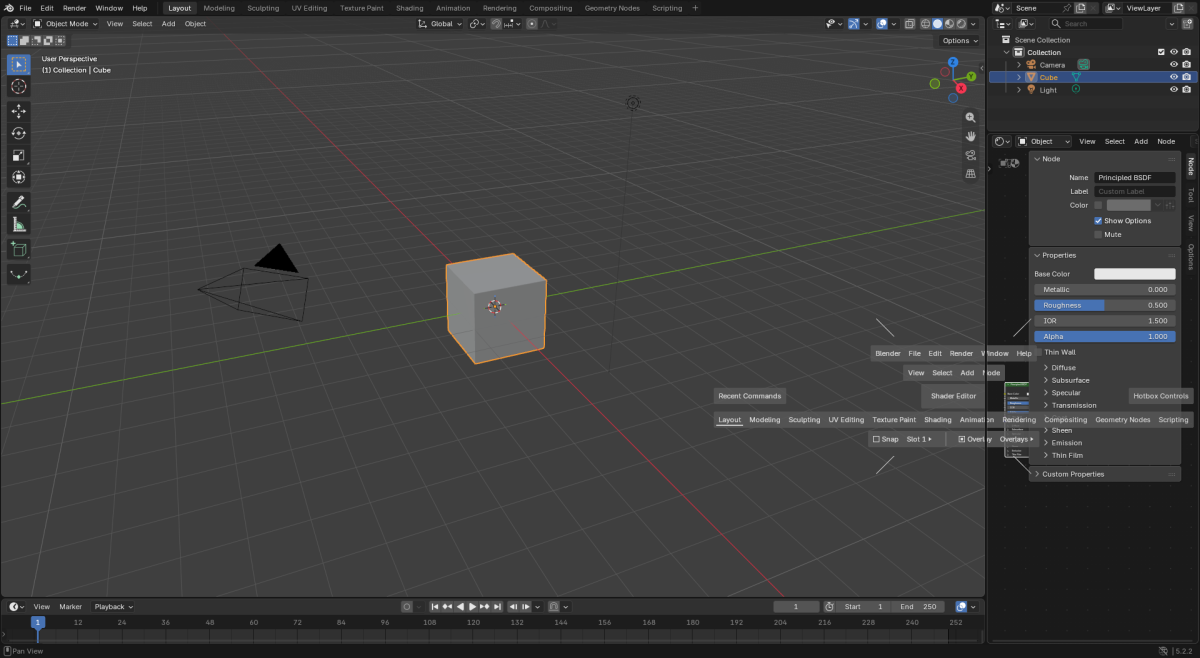
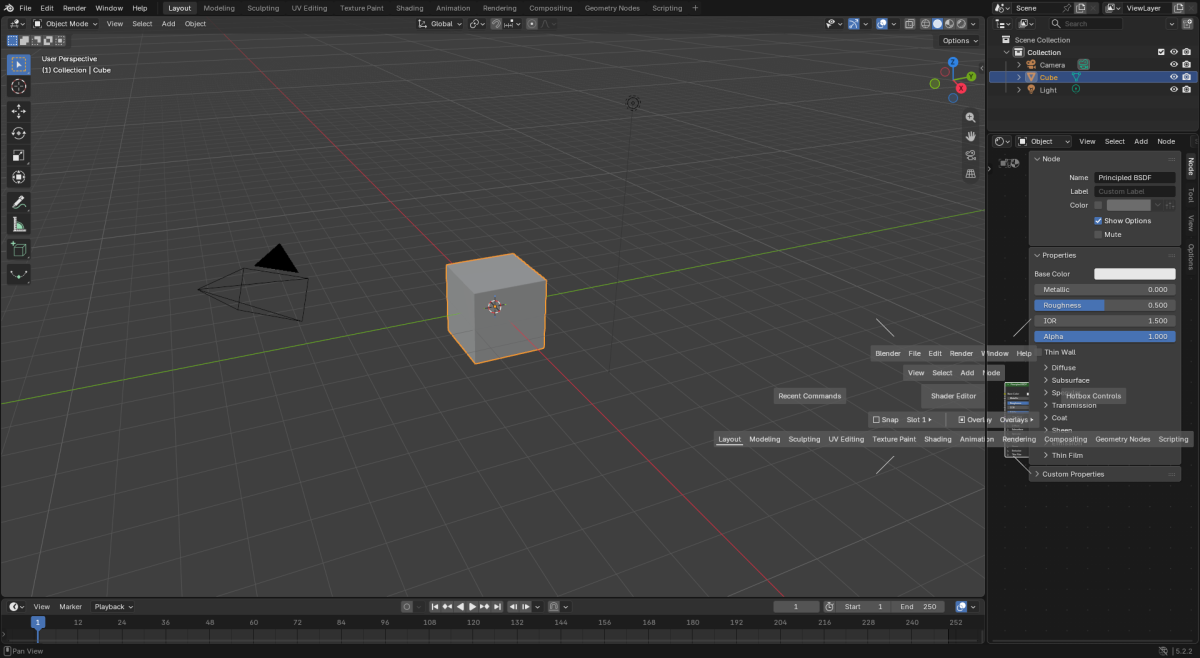
Layout: workspace row is always the bottom-most strip
core/model.py ROWS_LAST = ('workspace',); the layout places ROWS_LAST rows after every
other below-centre row regardless of model order. build_model order is now root,
contextual, tool_settings, workspace. Tests and interface notes updated.

Changed region(s): [[0.5858, 0.5775, 1.0, 0.6991], [0.5858, 0.5775, 0.7092, 0.6079]]

diff --git a/tests/unit/test_geometry.py b/tests/unit/test_geometry.py
@@ -206,8 +206,8 @@ class TestPacking(unittest.TestCase):
                 menu_row('contextual', ('View', 'Select'))]
         lay = do_layout(full_model(rows=rows))
         keys = [s.key for s in row_strips(lay)]
-        self.assertEqual(keys, ['root', 'contextual', 'extra2', 'workspace', 'tool_settings',
-                                'extra1'])
+        self.assertEqual(keys, ['root', 'contextual', 'extra2', 'tool_settings', 'extra1',
+                                'workspace'])
         center = lay.center.rect
         for s in row_strips(lay):
             if s.key in model_mod.ROWS_ABOVE:
@@ -951,17 +951,19 @@ class TestGlyphLayout(unittest.TestCase):
         self.assertEqual(g.hit_test(lay, *[v + 1 for v in (a.rect.x, a.rect.y)]), 'ts:snap:a',
                          "disabled items still hover-test (callers check enabled)")
 
-    def test_rows_order_contextual_above_tool_settings_below(self):
+    def test_rows_order_contextual_above_tool_settings_below_workspace_last(self):
         rows = [ts_row([toggle('a', 'Alpha')]), menu_row('contextual', ('View', 'Select')),
                 menu_row('root', ROOT_LABELS), ws_row()]
-        rows = [rows[2], rows[1], rows[3], rows[0]]      # build_model order
-        lay = do_layout(full_model(rows=rows))
-        ys = {k: lay.strip(k).rect.y for k in ('root', 'contextual', 'workspace', 'tool_settings')}
-        m = lay.metrics
-        self.assertGreater(ys['root'], ys['contextual'])
-        self.assertEqual(ys['contextual'], lay.center.rect.y1 + m.gap_y)
-        self.assertEqual(ys['workspace'], lay.center.rect.y - m.gap_y - m.row_h)
-        self.assertLess(ys['tool_settings'], ys['workspace'])
+        for order in ([2, 1, 0, 3], [2, 1, 3, 0]):       # build_model order; workspace anywhere
+            lay = do_layout(full_model(rows=[rows[i] for i in order]))
+            ys = {k: lay.strip(k).rect.y for k in ('root', 'contextual', 'workspace', 'tool_settings')}
+            m = lay.metrics
+            self.assertGreater(ys['root'], ys['contextual'])
+            self.assertEqual(ys['contextual'], lay.center.rect.y1 + m.gap_y)
+            self.assertEqual(ys['tool_settings'], lay.center.rect.y - m.gap_y - m.row_h)
+            self.assertLess(ys['workspace'], ys['tool_settings'])
+            self.assertEqual(min(s.rect.y for s in row_strips(lay)), ys['workspace'],
+                             "workspace tabs are the bottom-most strip")
 
     def test_menu_strips_fixed_when_tool_settings_wraps(self):
         """The root / contextual strips keep their offset from the centre whether the Tool
@@ -973,7 +975,7 @@ class TestGlyphLayout(unittest.TestCase):
             lay = do_layout(full_model(rows=rows))
             lines = [s for s in row_strips(lay) if s.key == 'tool_settings']
             return len(lines), {k: lay.strip(k).rect.y - lay.center.rect.y
-                                for k in ('root', 'contextual', 'workspace')}
+                                for k in ('root', 'contextual')}
         n1, one = offsets(2)
         n3, three = offsets(40)
         self.assertEqual(n1, 1)

diff --git a/src/meso/core/geometry.py b/src/meso/core/geometry.py
@@ -35,7 +35,7 @@ import math
 from collections.abc import Callable, Mapping
 from dataclasses import dataclass, field
 
-from .model import (CENTER_ID, CONTROLS_ID, KIND_SEPARATOR, KIND_TOGGLE, RECENT_ID, ROWS_ABOVE,
+from .model import (CENTER_ID, CONTROLS_ID, KIND_SEPARATOR, KIND_TOGGLE, RECENT_ID, ROWS_ABOVE, ROWS_LAST,
                     PlazaModel, Item)
 from .rects import Rect, bounding_box
 
@@ -361,7 +361,7 @@ def layout(model: PlazaModel, anchor: tuple[float, float], window_bounds: Rect |
        centred on the anchor (``round_px`` of the low corner); its text is centred in it.
     5. Vertical: lines above (ROWS_ABOVE order, each row's lines in reading order) stack
        upward from ``center.y1 + gap_y`` (lowest line first); lines below stack downward from
-       ``center.y - gap_y`` in model order; line pitch ``row_h + gap_y``.
+       ``center.y - gap_y`` in model order, ROWS_LAST rows last; line pitch ``row_h + gap_y``.
     6. Side boxes (``model.recent`` left, ``model.controls`` right): ``w = ceil(text_w +
        2*pad_x)``, ``h = row_h``, vertically centred on the centre box.
        ``recent.x = min(nx0, center.x - side_gap - w)`` where ``nx0`` = left edge of the
@@ -389,7 +389,9 @@ def layout(model: PlazaModel, anchor: tuple[float, float], window_bounds: Rect |
     # Rows -> lines (reading order). Placement before the shift: build rects at dy = 0 first.
     above_rows = [model.row(key) for key in ROWS_ABOVE]
     above = [r for r in above_rows if r is not None and not r.is_empty()]
-    below = [r for r in model.rows if r.key not in ROWS_ABOVE and not r.is_empty()]
+    below = [r for r in model.rows if r.key not in ROWS_ABOVE and r.key not in ROWS_LAST
+             and not r.is_empty()]
+    below += [r for key in ROWS_LAST for r in [model.row(key)] if r is not None and not r.is_empty()]
     above_lines = [(r, i, items) for r in above
                    for i, items in enumerate(_wrap(r.items, extents, m, wrap_at))]
     below_lines = [(r, i, items) for r in below

diff --git a/src/meso/core/model.py b/src/meso/core/model.py
@@ -50,10 +50,11 @@ PASSIVE_KINDS = frozenset({KIND_SEPARATOR, KIND_LABEL})
 ROW_ROOT = 'root'                       # TOPBAR_MT_editor_menus (File Edit Render ...)
 ROW_CONTEXTUAL = 'contextual'           # hovered editor's header menus (Phase 3)
 ROW_TOOL_SETTINGS = 'tool_settings'     # header centre/right controls (Phase 3)
-ROW_WORKSPACE = 'workspace'             # workspace tabs (below the centre line)
-# Rows above the centre line, top -> bottom. Any other key goes below, in model order
-# (record.rows.build_model: workspace tabs, then the variable-height Tool Settings row).
+ROW_WORKSPACE = 'workspace'             # workspace tabs (bottom-most strip)
+# Rows above the centre line, top -> bottom. Any other key goes below, in model order,
+# except ROWS_LAST, which always close the plaza at the bottom (in ROWS_LAST order).
 ROWS_ABOVE = (ROW_ROOT, ROW_CONTEXTUAL)
+ROWS_LAST = (ROW_WORKSPACE,)
 
 # --- fixed item ids ---
 CENTER_ID = 'center'
@@ -197,7 +198,8 @@ class PlazaModel:
     """Everything the plaza shows for one session.
 
     ``rows``: any order; the layout places :data:`ROWS_ABOVE` keys above the centre line (in
-    ROWS_ABOVE order, whatever their order here) and the rest below (in this order).
+    ROWS_ABOVE order, whatever their order here) and the rest below (in this order, then the
+    :data:`ROWS_LAST` keys at the very bottom).
     ``center``: the centre box item (kind :data:`KIND_CENTER`). ``recent`` / ``controls``:
     the centre-line side boxes (left / right), None = not shown.
 

diff --git a/src/meso/record/rows.py b/src/meso/record/rows.py
@@ -264,8 +264,8 @@ def _record_area(context: Any, info: InvokeInfo) -> Any | None:
 
 def build_model(context: Any, info: InvokeInfo, prefs: Any = None) -> PlazaModel:
     """The session model: rows ``(root_row(context), Row(ROW_CONTEXTUAL),
-    workspace_row(...), Row(ROW_TOOL_SETTINGS))`` (root + contextual above the centre;
-    workspace tabs right below it, then the wrapping Tool Settings row), ``center_item(...)``
+    Row(ROW_TOOL_SETTINGS), workspace_row(...))`` (root + contextual above the centre;
+    the wrapping Tool Settings row below it, workspace tabs at the very bottom), ``center_item(...)``
     and :func:`side_items`.
 
     ``prefs`` (the add-on preferences or None -> defaults) feeds the Tool Settings row
@@ -285,6 +285,6 @@ def build_model(context: Any, info: InvokeInfo, prefs: Any = None) -> PlazaModel
     finally:
         del recordings
     recent, controls = side_items()
-    rows = (root_row(context), contextual, workspace_row(context, info), tools)
+    rows = (root_row(context), contextual, tools, workspace_row(context, info))
     return PlazaModel(rows, center_item(context, info), recent, controls)
 

diff --git a/tests/blender/test_rows.py b/tests/blender/test_rows.py
@@ -116,7 +116,7 @@ class TestBuildModel(unittest.TestCase):
         model = self._build()
         self.assertIsInstance(model, m.PlazaModel)
         self.assertEqual([r.key for r in model.rows],
-                         [m.ROW_ROOT, m.ROW_CONTEXTUAL, m.ROW_WORKSPACE, m.ROW_TOOL_SETTINGS])
+                         [m.ROW_ROOT, m.ROW_CONTEXTUAL, m.ROW_TOOL_SETTINGS, m.ROW_WORKSPACE])
         self.assertEqual([i.id for i in model.row(m.ROW_ROOT).items], ROOT_IDS)
         ctx = model.row(m.ROW_CONTEXTUAL).items
         self.assertEqual([i.id for i in ctx], VIEW3D_OBJECT_CTX)

diff --git a/tests/unit/test_model.py b/tests/unit/test_model.py
@@ -149,6 +149,7 @@ class TestPlazaModel(unittest.TestCase):
         self.assertEqual(model.ROWS_ABOVE, ('root', 'contextual'))
         self.assertNotIn(model.ROW_TOOL_SETTINGS, model.ROWS_ABOVE)
         self.assertNotIn(model.ROW_WORKSPACE, model.ROWS_ABOVE)
+        self.assertEqual(model.ROWS_LAST, ('workspace',))
 
 
 class TestOrderedWorkspaces(unittest.TestCase):

diff --git a/notes/phase3-interfaces.md b/notes/phase3-interfaces.md
@@ -298,7 +298,7 @@ core.actions       -> core.model;  core.tap -> core.views;  core.{views,tables,m
   - `KIND_SEPARATOR` is `2*separator_gap` wide with no text.
 - **Hit testing and placement:**
   - `hit_test` skips `KIND_SEPARATOR`;
-  - the contextual row is the 2nd strip above the centre (`ROWS_ABOVE = ('root', 'contextual')`). The Tool Settings row, which wraps to 1-3 lines, sits below the centre after the workspace tabs (`build_model` row order root, contextual, workspace, tool_settings), so the root / contextual / workspace strips keep a fixed offset from the centre across modes and editors (post-review UX fix; muscle memory).
+  - the contextual row is the 2nd strip above the centre (`ROWS_ABOVE = ('root', 'contextual')`). The Tool Settings row, which wraps to 1-3 lines, sits directly below the centre and the workspace tabs close the Plaza at the very bottom (`ROWS_LAST = ('workspace',)`; `build_model` row order root, contextual, tool_settings, workspace — user request after v0.3), so the root / contextual strips keep a fixed offset from the centre across modes and editors.
 
 **Renderer:**
 - a checkbox (`renderer.checkbox`) and an arrow (`renderer.triangle`, 'RIGHT');
